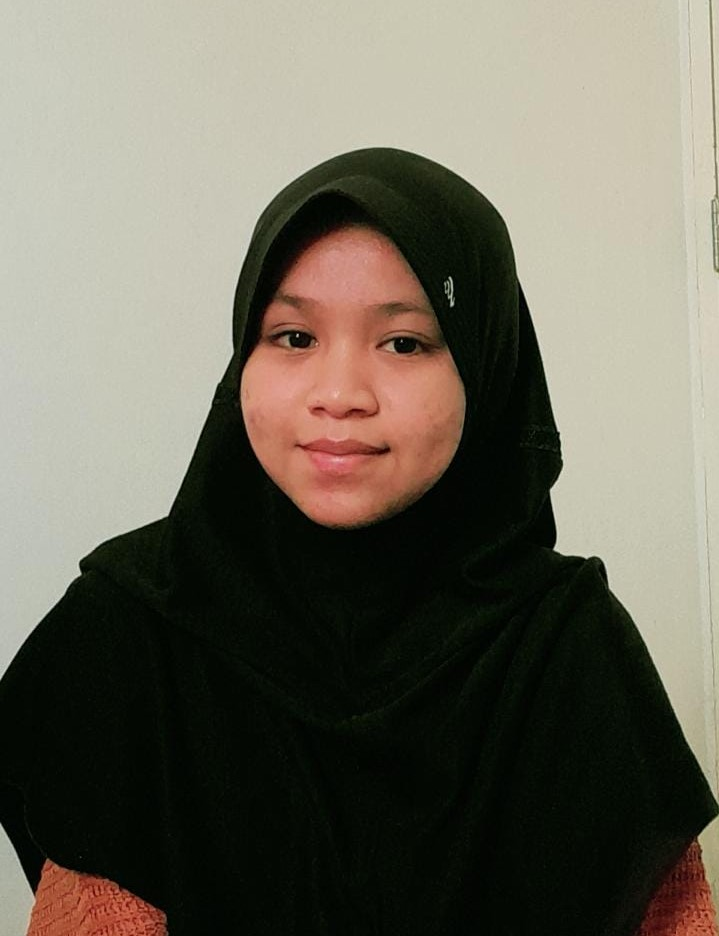
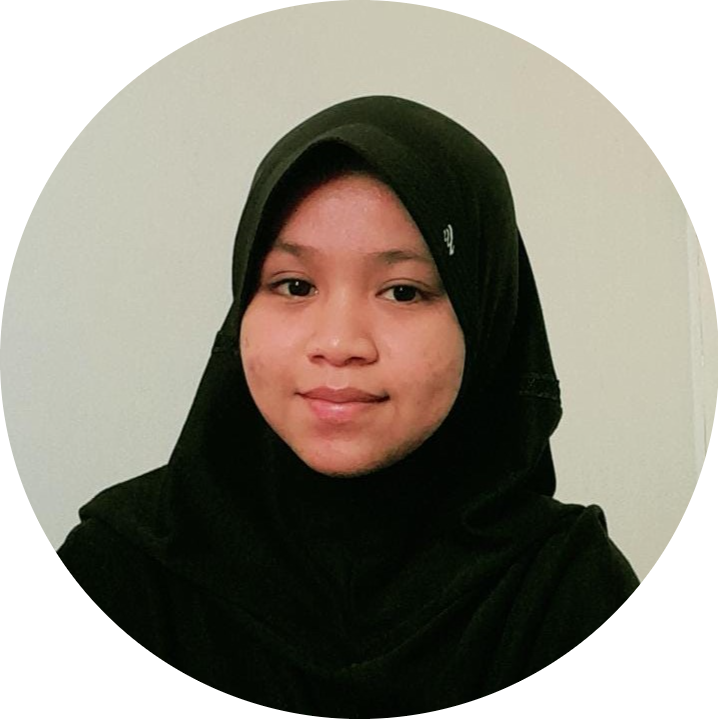
Tugas 2: DOM

diff --git a/01-HTML/Tugas1.1.html b/01-HTML/Tugas1.1.html
@@ -11,17 +11,20 @@
     <link href="https://cdn.jsdelivr.net/npm/bootstrap@5.1.1/dist/css/bootstrap.min.css" rel="stylesheet"
         integrity="sha384-F3w7mX95PdgyTmZZMECAngseQB83DfGTowi0iMjiWaeVhAn4FJkqJByhZMI3AhiU" crossorigin="anonymous">
     <!--File boostrap css (offline)-->
-    <link href="02-Assets/03-css/Style1.css" rel="stylesheet"> 
+    <link href="02-Assets/03-css/style1.1.css" rel="stylesheet">
+    <link rel="stylesheet" href="02-Assets/03-css/font-awesome.min.css">
+    <link rel="stylesheet" href="02-Assets/03-css/bootstrap.min.css">
 
     <title>TUGAS PRAKTIKUM 1</title>
 
 </head>
 
-<body>
+<body class="bg">
+
     <nav class="navbar navbar-expand-md navbar-dark">
         <div class="container py-2">
             <a class="navbar-brand">
-                Aulia
+                My Portfolio
             </a>
             <button class="navbar-toggler" type="button" data-bs-toggle="collapse" data-bs-target="#navbarNav"
                 aria-controls="navbarScroll" aria-expanded="false" aria-label="Toggle navigation">
@@ -32,38 +35,42 @@
                     <li class="nav-item"><a class="nav-link" href="#profile">Profile</a></li>
                     <li class="nav-item"><a class="nav-link" href="#project">Project</a></li>
                     <!-- Button trigger modal -->
-                    <li class="nav-item"><a class="nav-link" data-bs-toggle="modal" data-bs-target="#exampleModal">Contact</a></li>
+                    <li class="nav-item"><a class="nav-link" data-bs-toggle="modal"
+                            data-bs-target="#exampleModal">Contact</a></li>
                 </ul>
             </div>
         </div>
     </nav>
 
     <!--Profile-->
-    <div class="container my-5 d-flex justify-content-center" id="profile">
-        <div class="card">
-            <div class="d-block justify-content-center">
-                <div class="area1 p-3 py-5"> </div>
-                <div class="area2 p-3 text-center px-3">
-                    <div class="image mr-3"> <img src="02-Assets/04-Gambar/1.jpg" class="rounded-circle" width="100" />
-                        <h4 class=" name mt-3 ">Aulia Insani. H</h4>
-                        <p class="information mt-3 text-justify">Lahir di Makassar, 12 Agustus 2002. Saya adalah
-                            mahasiswi sistem informasi dari Universitas Hasanuddin angkatan 2020. </p>
+    <section class="profile py-5" id="profile">
+        <div class="container-lg pe-0 ps-5">
+            <div class="row min-vh-100 align-item-center align-content-center">
+                <div class="col-md-6 mt-5 mt-md-0">
+                    <div class="profile-img text-center">
+                        <img src="02-Assets/04-Gambar/1.jpg" class="rounded-circle mw-100" alt="1 img" width="280">
                     </div>
-                    <div> </div>
+                </div>
+                <div class="col-md-6 mt-5 mt-md-0 order-md-first">
+                    <div class="profile-text mt-3">
+                        <p class="text-muted mb-1">Hello! My name is</p>
+                        <h2 class="texth2 text-uppercase fs-2 fw-bold">Aulia Insani. H</h2>
+                        <p class="mt-3 text-muted">Born in Makassar, August 12, 2002. I am an information systems student from Hasanuddin University.</p>
+                    </div>
                 </div>
             </div>
         </div>
-    </div>
+    </section>
     <!--Profile end-->
 
-    <!--start project-->
-    <div class="container py-4 px-auto ps-5" id="project">
-        <h2>My Project</h2>
-        <div class="row row-cols-1 row-cols-mx-3">
-            <div class="col-4">
+     <!--start project-->
+     <div class="container mb-5 px-auto ps-5 pe-1" id="project">
+        <h2 class="text1 text-center fw-bold mb-5 pe-4">My Project</h2>
+        <div class="row">
+            <div class="col mt-3 ps-4 col-sm">
                 <div class="card" style="width: 18rem;">
                     <img src="02-Assets/04-Gambar/3.jpg" class="card-img-top" alt="...">
-                    <div class="card-body">
+                    <div class="cardb card-body">
                         <h5 class="card-title">Johannes Gutenberg</h5>
                         <p class="card-text"><b>Negara asal:</b> Jerman <br><b>Dikenal atas:</b> penemuan movable
                             printing press</p>
@@ -71,10 +78,10 @@
                 </div>
             </div>
 
-            <div class="col-4">
+            <div class="col mt-3 ps-4 col-sm">
                 <div class="card" style="width: 18rem;">
                     <img src="02-Assets/04-Gambar/4.jpg" class="card-img-top" alt="...">
-                    <div class="card-body">
+                    <div class="cardb card-body">
                         <h5 class="card-title">Blaise Pascal</h5>
                         <p class="card-text"><b>Negara asal:</b> Prancis<br><b>Dikenal atas:</b> penemuan mesin hitung
                         </p>
@@ -82,10 +89,10 @@
                 </div>
             </div>
 
-            <div class="col-4">
+            <div class="col mt-3 ps-4 col-sm">
                 <div class="card" style="width: 18rem;">
                     <img src="02-Assets/04-Gambar/5.jpg" class="card-img-top" alt="...">
-                    <div class="card-body">
+                    <div class="cardb card-body">
                         <h5 class="card-title">Samuel F.B. Morse</h5>
                         <p class="card-text"><b>Negara asal:</b> Amerika Serikat <br><b>Dikenal atas:</b> penemuan
                             Telegrap, tahun 1837</p>
@@ -101,8 +108,8 @@
     <div class="modal fade" id="exampleModal" tabindex="-1" aria-labelledby="exampleModalLabel" aria-hidden="true">
         <div class="modal-dialog">
             <div class="modal-content">
-                <div class="modal-header" style="background-color:#d3a3a3bb">
-                    <h5 class="modal-title" id="exampleModalLabel">Contact</h5>
+                <div class="modal-header" style="background-color:rgb(178, 178, 240)">
+                    <h5 class="modal-title" id="exampleModalLabel">Contact Me</h5>
                     <button type="button" class="btn-close" data-bs-dismiss="modal" aria-label="Close"></button>
                 </div>
                 <div class="modal-body">
@@ -126,8 +133,11 @@
                 </div>
             </div>
 
-            <script src="https://cdn.jsdelivr.net/npm/bootstrap@5.1.1/dist/js/bootstrap.bundle.min.js" integrity="sha384-/bQdsTh/da6pkI1MST/rWKFNjaCP5gBSY4sEBT38Q/9RBh9AH40zEOg7Hlq2THRZ" crossorigin="anonymous"></script>
-            
+            <script src="https://cdn.jsdelivr.net/npm/bootstrap@5.1.1/dist/js/bootstrap.bundle.min.js"
+                integrity="sha384-/bQdsTh/da6pkI1MST/rWKFNjaCP5gBSY4sEBT38Q/9RBh9AH40zEOg7Hlq2THRZ"
+                crossorigin="anonymous"></script>
+            <script src="/02-Assets/05-jss/bootstrap.bundle.min."></script>
+
 </body>
 
 </html>

diff --git a/02-HTML/JavaS.js b/02-HTML/JavaS.js
@@ -1,0 +1,68 @@
+//selectors
+const itemInput = document.querySelector(".item-input");
+const itemButton = document.querySelector(".item-button");
+const itemList = document.querySelector(".item-list");
+const btnAdd = document.getElementById('btn-add-item');
+
+//event listeners
+itemButton.addEventListener('click', addItem);
+itemList.addEventListener('click', deleteCheck);
+
+//function
+function addItem(event) {
+
+    //prevent form from submitting
+    event.preventDefault();
+
+    //Todo DIV
+    const itemDiv = document.createElement("div");
+    itemDiv.classList.add("item");
+
+    //create li
+    const newItem = document.createElement('li');
+    newItem.innerText = itemInput.value;
+    newItem.classList.add('item-item');
+    itemDiv.appendChild(newItem);
+    itemInput.focus();
+
+    //check mark button
+    const completedButton = document.createElement('button');
+    completedButton.innerHTML = '<i class="fas fa-check"></i>';
+    completedButton.classList.add("complete-btn");
+    itemDiv.appendChild(completedButton);
+
+    //check trash button
+    const trashButton = document.createElement('button');
+    trashButton.innerHTML = '<i class="fas fa-trash"></i>';
+    trashButton.classList.add("trash-btn");
+    itemDiv.appendChild(trashButton);
+
+    if(itemInput.value === "") {
+        alert("Item can not empty");
+        itemInput.focus();
+        return false;
+      }  
+
+    //append to list
+    itemList.appendChild(itemDiv);
+
+    //clear todo input value
+    itemInput.value = "";
+}
+
+function deleteCheck(e) {
+    const item = e.target;
+
+    //delete todo
+    if (item.classList[0] === 'trash-btn') {
+        const item2 = item.parentElement;
+        item2.remove();
+    }
+
+    //check mark
+    if (item.classList[0] === "complete-btn") {
+        const item2 = item.parentElement;
+        item2.classList.toggle("completed");
+    }
+}
+

diff --git a/02-HTML/main.css b/02-HTML/main.css
@@ -1,0 +1,96 @@
+* {
+    margin: 0;
+    padding: 0;
+    box-sizing: border-box;
+}
+
+body {
+    background-image: linear-gradient(120deg, #82cde5, #134c75);
+    color: white;
+    font-family: 'Poppins', sans-serif;
+    min-height: 100vh;
+}
+
+header {
+    font-size: 1.5rem;
+}
+
+header,
+form {
+    min-height: 20vh;
+    display: flex;
+    justify-content: center;
+    align-items: center;
+}
+form input, form button {
+    padding: 0.5rem;
+    font-size: 2rem;
+    border: none;
+    background: white;
+    
+}
+form button {
+    color: #4baab1;
+    background: white;
+    cursor: pointer;
+    transition: all 0.3s ease;
+}
+form button:hover {
+    background: #4baab1;
+    color: white;
+}
+
+.item-container {
+    display: flex;
+    justify-content: center;
+    align-items: center;
+}
+
+.item-list {
+    min-width: 30%;
+    list-style: none;
+}
+
+.item {
+    margin: 0.5rem;
+    background: white;
+    color: black;
+    font-size: 1.5rem;
+    display: flex;
+    justify-content: space-between;
+    align-items: center;
+    transition: all 0.5s ease;
+}
+
+.item li {
+    flex: 1;
+}
+
+.trash-btn, 
+.complete-btn{
+    background: #ff6f47;
+    color: white;
+    border: none;
+    padding: 1rem;
+    cursor: pointer;
+    font-size: 1rem;
+}
+
+.complete-btn {
+    background: rgb(73, 204, 73);
+}
+
+.item-item {
+    padding: 0rem 0.5rem;
+}
+
+.fa-trash, 
+.fa-check {
+    pointer-events: none;
+}
+
+.completed {
+    text-decoration: line-through;
+    opacity: 0.5;
+}
+

diff --git a/02-HTML/TgsDom.html b/02-HTML/TgsDom.html
@@ -1,0 +1,34 @@
+<!DOCTYPE html>
+<html>
+
+<head>
+    <meta charset='utf-8'>
+    <meta http-equiv='X-UA-Compatible' content='IE=edge'>
+    <title>Tugas DOM</title>
+    <meta name='viewport' content='width=device-width, initial-scale=1'>
+    <link href="https://fonts.googleapis.com/css2?family=Poppins:wght@100&display=swap" rel="stylesheet">
+    <link rel="stylesheet" href="https://cdnjs.cloudflare.com/ajax/libs/font-awesome/6.0.0-beta2/css/all.min.css" integrity="sha512-YWzhKL2whUzgiheMoBFwW8CKV4qpHQAEuvilg9FAn5VJUDwKZZxkJNuGM4XkWuk94WCrrwslk8yWNGmY1EduTA==" crossorigin="anonymous" referrerpolicy="no-referrer" />
+    <link rel="stylesheet" href="main.css">
+</head>
+
+<body>
+
+    <header>
+        <h1>Shopping List</h1>
+    </header>
+    <form>
+        <input type="text" class="item-input" placeholder="Input Item...">
+        <button class="item-button" type="submit" id="btn-add-item">
+            <i class="fas fa-plus-square"></i>
+        </button>
+    </form>
+    <div class="item-container">
+        <ul class="item-list"></ul>
+    </div>
+
+    <div class="item"></div>
+
+    <script src="JavaS.js"></script>
+</body>
+
+</html>

diff --git a/01-HTML/02-Assets/03-css/style1.1.css b/01-HTML/02-Assets/03-css/style1.1.css
@@ -1,0 +1,19 @@
+.navbar {
+    background-color:rgb(135, 135, 201)
+}
+
+.bg {
+    background-color: rgb(217, 217, 241);
+}
+
+.texth2 {
+    color:rgb(105, 105, 216);
+}
+
+.text1 {
+    color:rgb(104, 104, 187);
+}
+
+.cardb {
+    background-color:rgb(227, 227, 248);
+}

diff --git a/01-HTML/02-Assets/03-css/Style1.css b/01-HTML/02-Assets/03-css/Style1.css
@@ -1,3 +1,7 @@
+.navbar {
+    background-color:#633b3b
+}
+
 .card {
     width: 400px;
     border: none;
